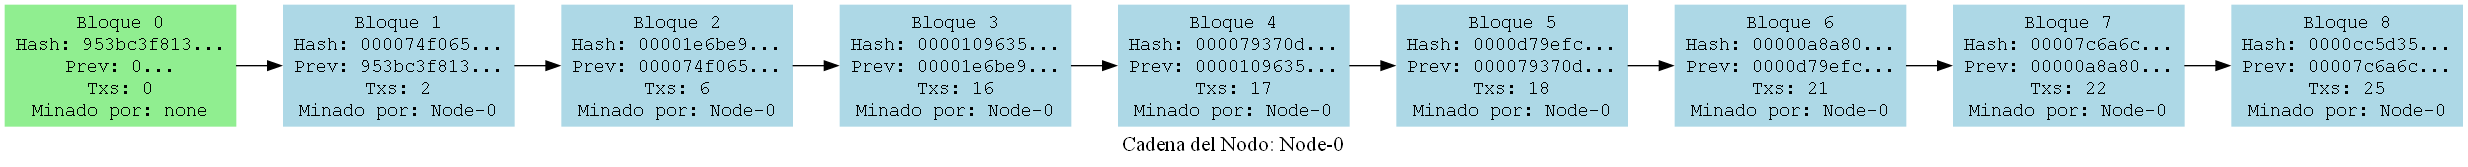
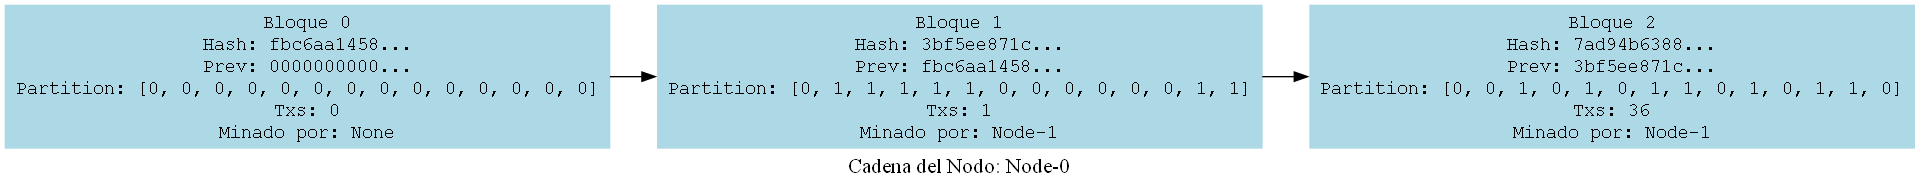
graphic representation in quantum node

Changed region(s): [[0.0, 0.0, 1.0, 0.9281], [0.9375, 0.0898, 0.9688, 0.1796]]

diff --git a/Quantum_simulation/quantum_node.py b/Quantum_simulation/quantum_node.py
@@ -8,9 +8,14 @@ import time
 import threading
 import queue
 import random
-#from graphviz import Digraph
 import hashlib
 import networkx as nx
+
+
+#graphviz_bin = r"C:\Program Files\Graphviz\bin"
+
+#os.environ["PATH"] += os.pathsep + graphviz_bin
+from graphviz import Digraph
 
 class Node(threading.Thread):
     def __init__(self, node_id:str, blockchain_instance = Blockchain, node_list: list = None, stop_event: threading.Event = None):
@@ -392,66 +397,65 @@ class Node(threading.Thread):
             print(f"Nodo {self.node_id}: ERROR Tx {tx_hash[:8]}...")
 
     # --- UTILITIES ---
-    '''
-    def visualize_chain(self, filename: str = None, max_blocks:int = None):
-        
-        if filename is None:
-            filename = f"simulation{self.node_id}_chain"
-        print(f"\n--- Generando visualizacion para {self.node_id}")
-
-        dot = Digraph(comment=f'Blockchain de {self.node_id}', format='png')
-        # rankdir='TB' (Top to Bottom) puede ser más natural para una sola cadena
-        dot.attr(rankdir='TB')
-        dot.attr('node', shape='record', style='filled', color='lightblue')
-        dot.attr(label=f'Cadena del Nodo: {self.node_id}', fontsize='16') # Título del grafo
-
-        chain_to_visualize = self.blockchain.chain
-        if not chain_to_visualize:
-            print(f"Nodo {self.node_id}: sin cadena")
-            return
-        if max_blocks and len(chain_to_visualize) > max_blocks:
-            print(f"Mostrando los ultimos {max_blocks} bloques de {len(chain_to_visualize)}")
-            chain_to_visualize = chain_to_visualize[-max_blocks:]
-        start_index = self.blockchain.chain.index(chain_to_visualize[0])
-
-        for i, block in enumerate(chain_to_visualize):
-            actual_index = start_index + i # El índice real del bloque en la cadena completa
-            miner_info = getattr(block, 'mined_by', 'N/A') # Asume atributo 'mined_by'
-            label = (f"{{ {actual_index}: Bloque {block.index} | " # Usar índice real para título
-                     f"Hash: {block.hash[:8]}... | "
-                     f"Prev: {block.previous_hash[:8]}... | "
-                     f"Nonce: {block.nonce} | "
-                     f"Txs: {len(block.transactions)} | "
-                     f"Minado por: {block.mined_by} }}")
-
-            # Usar el hash como ID único para el nodo graphviz
-            node_id = block.hash
-
-            dot.node(node_id, label=label)
-
-            # Marcar el nodo génesis si está en la vista
-            if block.previous_hash == "0":
-                 dot.node(node_id, _attributes={'style': 'filled', 'color':'lightgreen'})
-
-        # 2. Añadir aristas (conexiones) entre los bloques VISUALIZADOS
-        #    Asume que la lista `chain_to_visualize` es secuencialmente correcta para este nodo
-        for i in range(1, len(chain_to_visualize)):
-            prev_block = chain_to_visualize[i-1]
-            current_block = chain_to_visualize[i]
-
-            # Añadir eje desde el hash del bloque anterior al hash del actual
-            # La validación visual se hará comparando el "Prev:" del bloque actual
-            # con el "Hash:" del bloque anterior en la imagen.
-            dot.edge(prev_block.hash, current_block.hash)
-
-
-        # 3. Renderizar
-        try:
-            # Puedes añadir engine='dot' si quieres especificarlo
-            output_path = dot.render(filename, view=False, cleanup=True)
-            print(f"  Visualización para {self.node_id} guardada como: {output_path}")
-        except Exception as e:
-            print(f"\n  Error al generar Graphviz para {self.node_id}: {e}")
-            print("  Verifica que Graphviz esté instalado y en el PATH.")
-            
-            '''
+  
+    def visualize_chain(self, filename: str = None, max_blocks: int = None):
+       """
+       Genera un archivo de imagen de la blockchain DE ESTE NODO usando Graphviz.
+       Los bloques se encadenan de Izquierda a Derecha.
+       La información DENTRO de cada bloque se lista Verticalmente.
+       Args:
+           filename (str, optional): Nombre base del archivo de salida (sin extensión).
+                                     Defaults to "node_{self.node_id}_chain_LR_V".
+           max_blocks (int, optional): Número máximo de bloques recientes a mostrar.
+                                       Defaults to None (mostrar todos).
+       """
+       if filename is None:
+           filename = f"node_{self.node_id}_chain" # Indicar layout
+       print(f"\n--- Generando visualización Graphviz (LR, V-Label) para {self.node_id} ({filename}) ---")
+       dot = Digraph(comment=f'Blockchain de {self.node_id}', format='png')
+       # 1. Dirección del grafo: Izquierda a Derecha
+       dot.attr(rankdir='LR')
+       # 2. Forma del nodo: Caja estándar (o el default). El label hará el trabajo vertical.
+       dot.attr('node', shape='box', style='filled', color='lightblue', fontname='Courier New') # Usar fuente monoespaciada ayuda
+       dot.attr(label=f'Cadena del Nodo: {self.node_id}', fontsize='16')
+       chain_to_visualize = self.blockchain.chain
+       if not chain_to_visualize:
+           print(f"  Nodo {self.node_id}: Cadena vacía, no se genera gráfico.")
+           return
+       if max_blocks and len(chain_to_visualize) > max_blocks:
+           print(f"  (Mostrando los últimos {max_blocks} bloques de {len(chain_to_visualize)})")
+           chain_to_visualize = chain_to_visualize[-max_blocks:]
+       start_index = self.blockchain.chain.index(chain_to_visualize[0])
+       # 3. Añadir nodos (bloques) al grafo
+       for i, block in enumerate(chain_to_visualize):
+           actual_index = start_index + i
+           miner_info = getattr(block, 'mined_by', 'N/A')
+           hash = block.calculate_final_hash()
+           # --- >> CAMBIO CLAVE: Crear Label con Saltos de Línea ('\n') << ---
+           label_lines = [
+               f"Bloque {block.index}",
+               f"Hash: {hash[:10]}...", # Mostrar un poco más del hash?
+               f"Prev: {block.previous_hash[:10]}...",
+               f"Partition: {block.partition_solution}",
+               f"Txs: {len(block.transactions)}",
+               f"Minado por: {miner_info}"
+           ]
+           label = "\n".join(label_lines) # Unir líneas con salto de línea
+           # --- >> FIN DEL CAMBIO << ---
+           node_id = block.hash
+           dot.node(node_id, label=label) # El label ahora tiene saltos de línea
+           if i == "0":
+                dot.node(node_id, _attributes={'style': 'filled', 'color':'lightgreen'})
+       # 4. Añadir aristas (conexiones) - Irán de Izquierda a Derecha
+       for i in range(1, len(chain_to_visualize)):
+           prev_block = chain_to_visualize[i-1]
+           current_block = chain_to_visualize[i]
+           dot.edge(prev_block.hash, current_block.hash)
+       # 5. Renderizar
+       try:
+           output_path = dot.render(filename, view=False, cleanup=True)
+           print(f"  Visualización para {self.node_id} guardada como: {output_path}")
+       except Exception as e:
+           print(f"\n  Error al generar Graphviz para {self.node_id}: {e}")
+           print("  Verifica que Graphviz esté instalado y en el PATH.")
+           

diff --git a/Quantum_simulation/Quantum_Thread_simulation.py b/Quantum_simulation/Quantum_Thread_simulation.py
@@ -13,7 +13,7 @@ NUM_NODES = 2
 INITIAL_DIFFICULTY_RATIO = 0.6
 PROTOCOL_N = 14
 PROTOCOL_P = 0.5
-SIMULATION_TIME = 60  # seconds
+SIMULATION_TIME = 30  # seconds
 
 # --Inicializacion
 print("Iniciando la simulacion...")
@@ -100,8 +100,8 @@ finally:
         for block in node.blockchain.chain:
             print(f" - Bloque {block.index}: {block.calculate_hash()[:8]}... Tx: {len(block.transactions)}, Prevous: {block.previous_hash[:8]}..., Minado por {block.mined_by}")'''
 
-    #node_to_print = nodes[0]
-    #node_to_print.visualize_chain()
+    node_to_print = nodes[0]
+    node_to_print.visualize_chain()
 
 
     # Validar la cadena de bloques
